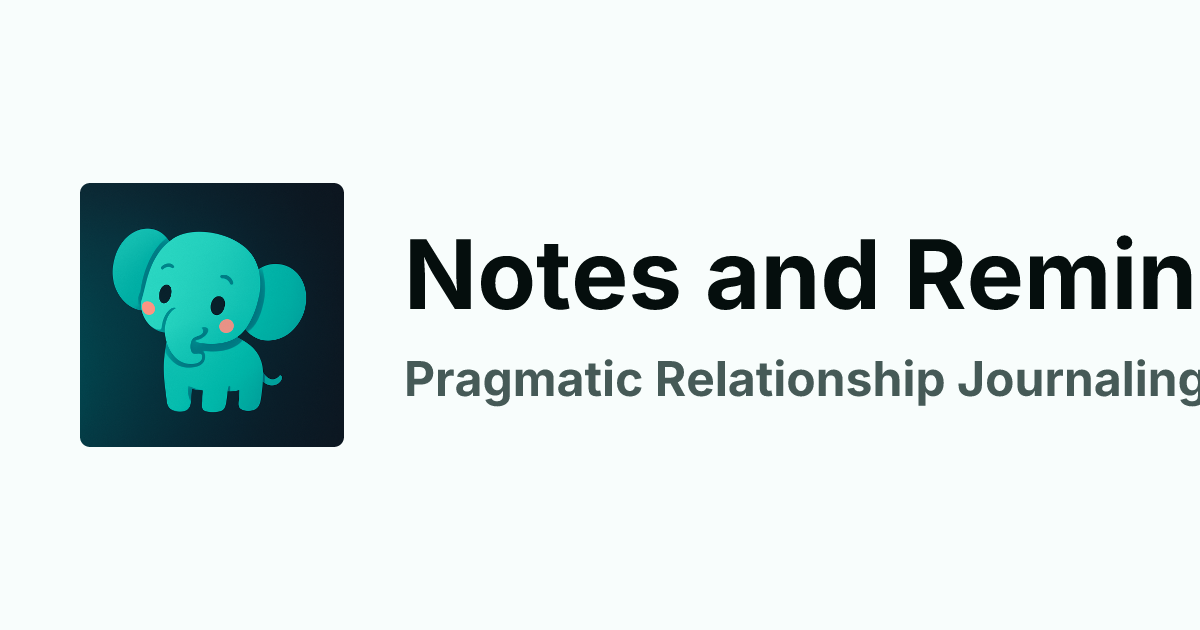
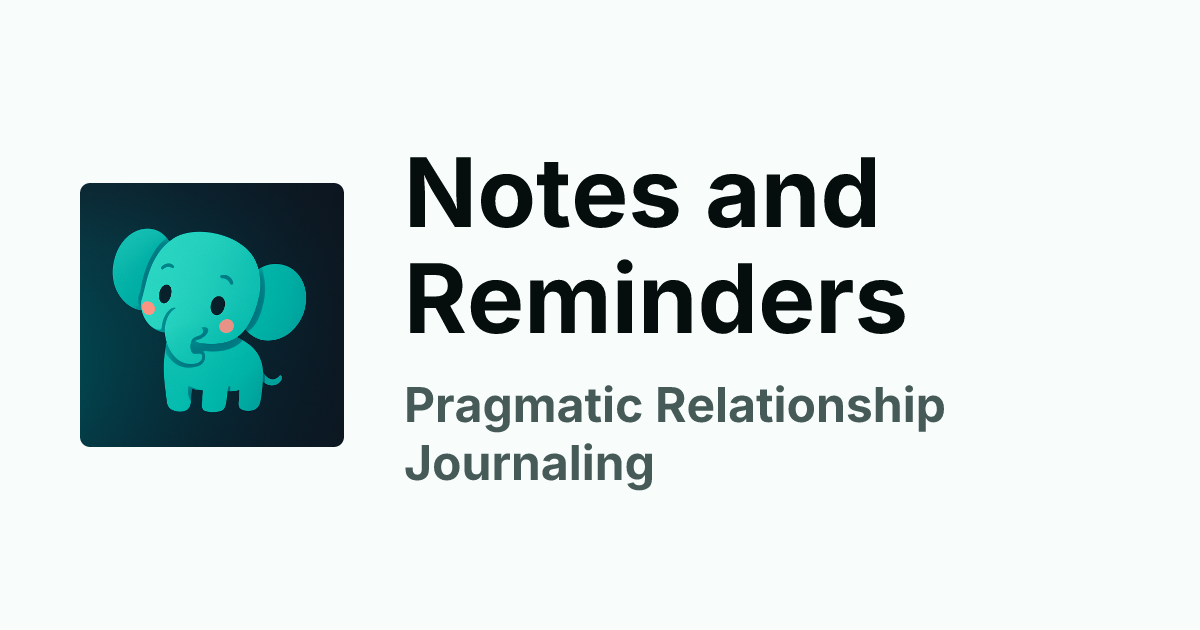
fix: og image text overflow

Changed region(s): [[0.3392, 0.2413, 1.0, 0.5429], [0.3392, 0.573, 1.0, 0.7841]]

diff --git a/scripts/og.tsx b/scripts/og.tsx
@@ -152,14 +152,17 @@ function renderOgTree(input: TemplateInput) {
 					flexDirection: "column", // Stack heading and tagline vertically
 					alignItems: "flex-start", // Align text to the left within its container
 					justifyContent: "center", // Vertically center content if extra space exists
-					flexGrow: 1, // Allow text container to take available horizontal space
+					flexGrow: 0, // Don't grow to fill space
+					maxWidth: "600px", // Constrain width to force wrapping
 				}}
 			>
 				<div
 					style={{
 						fontSize: "96px",
 						fontWeight: 700,
-						lineHeight: 1.05,
+						lineHeight: 1.1,
+						wordWrap: "break-word",
+						overflowWrap: "break-word",
 					}}
 				>
 					{input.heading}
